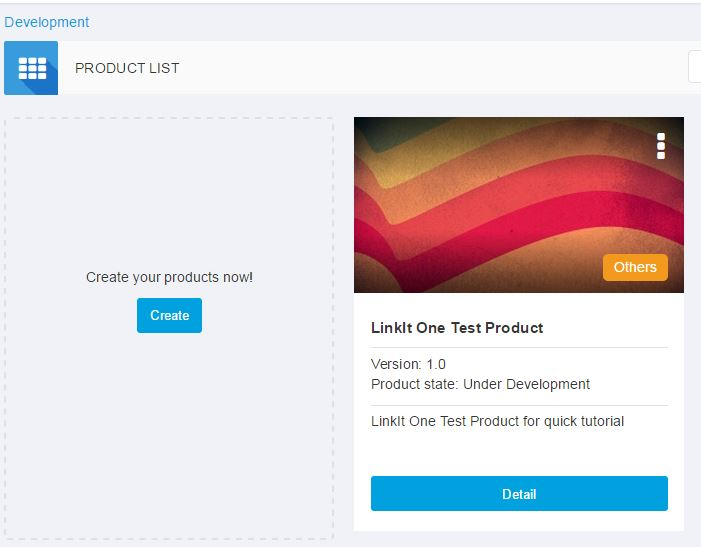
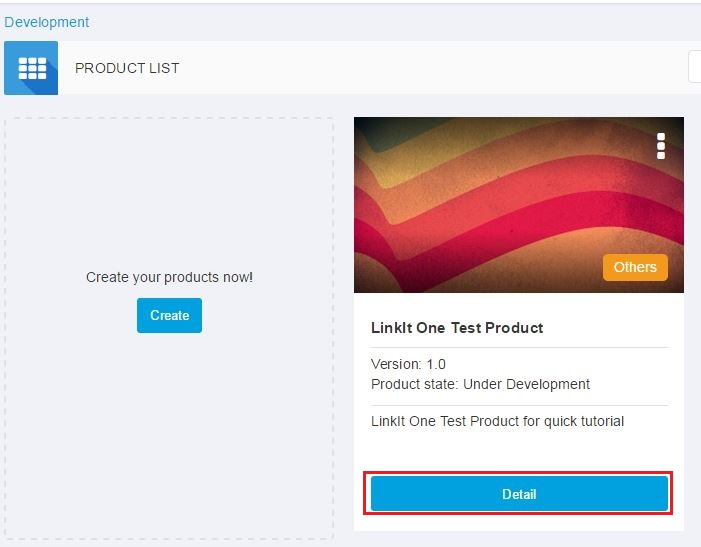
update Linkit One Tutorial

Changed region(s): [[0.5093, 0.8391, 0.9586, 0.9634]]

diff --git a/tutorial/implementing_using_linkit_one.md b/tutorial/implementing_using_linkit_one.md
@@ -27,17 +27,69 @@ b. Fill in the detail information as per screen to give a basic profile of this 
 
 ![](https://raw.githubusercontent.com/Mediatek-Cloud/MCS/master/graphics/LinkIt-one-tutorial/02-Create-Product.JPG)
 
-c.
+c. Click "Detail" for the Product created
 
-![](https://raw.githubusercontent.com/Mediatek-Cloud/MCS/master/graphics/LinkIt-one-tutorial/03-Product-list.JPG)
+![](https://raw.githubusercontent.com/Mediatek-Cloud/MCS/master/graphics/LinkIt-one-tutorial/03-Product-List.JPG)
 
+d. In the Product Detail Page, select "Data Channel" TAB and click "Add" to create new Data Channel:
+
+![](https://raw.githubusercontent.com/Mediatek-Cloud/MCS/master/graphics/LinkIt-one-tutorial/04-Add-Data-Channel.JPG)
+
+![](https://raw.githubusercontent.com/Mediatek-Cloud/MCS/master/graphics/LinkIt-one-tutorial/05-Add-Data-Channel.JPG)
+
+We are going to create two Data Channel for this tutorial, one is a Display Data Channel to reflect the status of the LED light on the board; one is a Controller Data Channel that issues command to the board to switch the LED light:
+
+e. Select "Display" Data Channel and key in the following information
+
+![](https://raw.githubusercontent.com/Mediatek-Cloud/MCS/master/graphics/LinkIt-one-tutorial/05a-Add-Data-Channel.JPG)
+
+![](https://raw.githubusercontent.com/Mediatek-Cloud/MCS/master/graphics/LinkIt-one-tutorial/07-Add-Data-Channel.JPG)
+
+Please take note of the Data Channel Id, this is the unique identifier when calling API later in the tutorial.
+
+f. Repeat the same step in e, except select "Controller" Data Channel and key in the following information
+
+![](https://raw.githubusercontent.com/Mediatek-Cloud/MCS/master/graphics/LinkIt-one-tutorial/05b-Add-Data-Channel.JPG)
+
+![](https://raw.githubusercontent.com/Mediatek-Cloud/MCS/master/graphics/LinkIt-one-tutorial/08-Add-Data-Channel.JPG)
+
+Please take note of the Data Channel Id, this is the unique identifier when calling API later in the tutorial.
+
+g. Once completed, you should be able to see two data channel created as below:
+
+![](https://raw.githubusercontent.com/Mediatek-Cloud/MCS/master/graphics/LinkIt-one-tutorial/09-Create-Test-Device.JPG)
 
 ####Step 2. Create Test Device
 
+a. Click "Create Test Device" on the right upper corner of the page
 
+![](https://raw.githubusercontent.com/Mediatek-Cloud/MCS/master/graphics/LinkIt-one-tutorial/09a-Create-Test-Device.JPG)
+
+b. Once Test Device is created a message is prompted:
+
+![](https://raw.githubusercontent.com/Mediatek-Cloud/MCS/master/graphics/LinkIt-one-tutorial/10-Create-Test-Device.JPG)
+
+c. Click "My devices" in the navigation bar on the left hand side, you should see a test device is created:
+
+![](https://raw.githubusercontent.com/Mediatek-Cloud/MCS/master/graphics/LinkIt-one-tutorial/11-Create-Test-Device.JPG)
+
+d. Click on the "detail" button to see the device page:
+
+![](https://raw.githubusercontent.com/Mediatek-Cloud/MCS/master/graphics/LinkIt-one-tutorial/12-Create-Test-Device.JPG)
+
+Please take note of the deviceId and deviceKey for calling API later in the tutorial.
 
 ####Step 3. Obtain Device ID, Device Key, Data Channel ID
-[steps to be filled in]
+Here is the summary of the neccessary information we have obtained in interacting with this test device:
+
+| Name | Value | Remark |
+| -- | -- | -- |
+| deviceId | Dsre1qRQ | Unique Identifier for this Test Device |
+| deviceKey | DFbtsNWg4AuLZ30v  | Unique API Key for this Test Device |
+| dataChannelId | LED | Data Channel Id for LED status |
+| dataChannelId | LED_CONTROL | Data Channel Id for LED control |
+
+Please note, the deviceId and deviceKey shown here will be differet to yours, please use your obtained value instead.
 
 ####Step 4. Code the development board
 [steps to be filled in]
